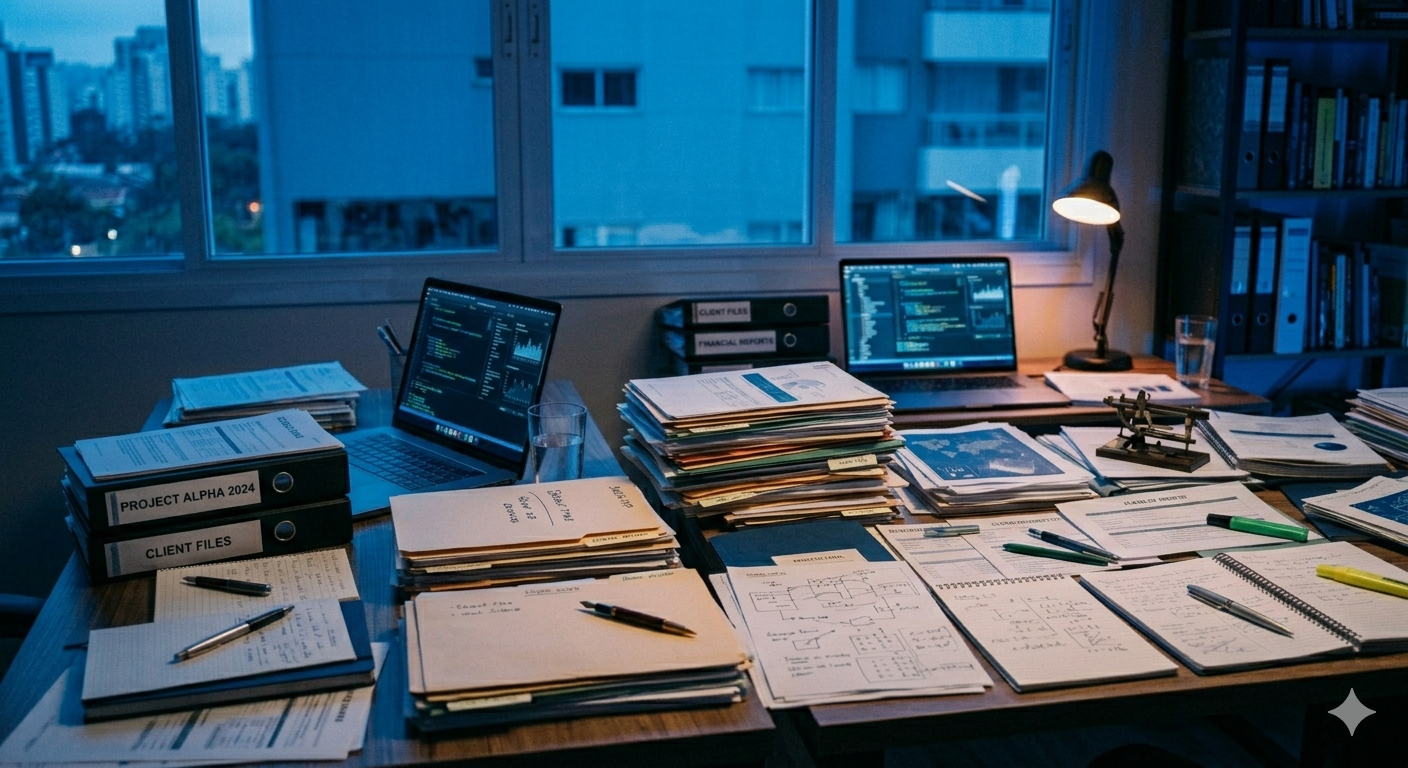
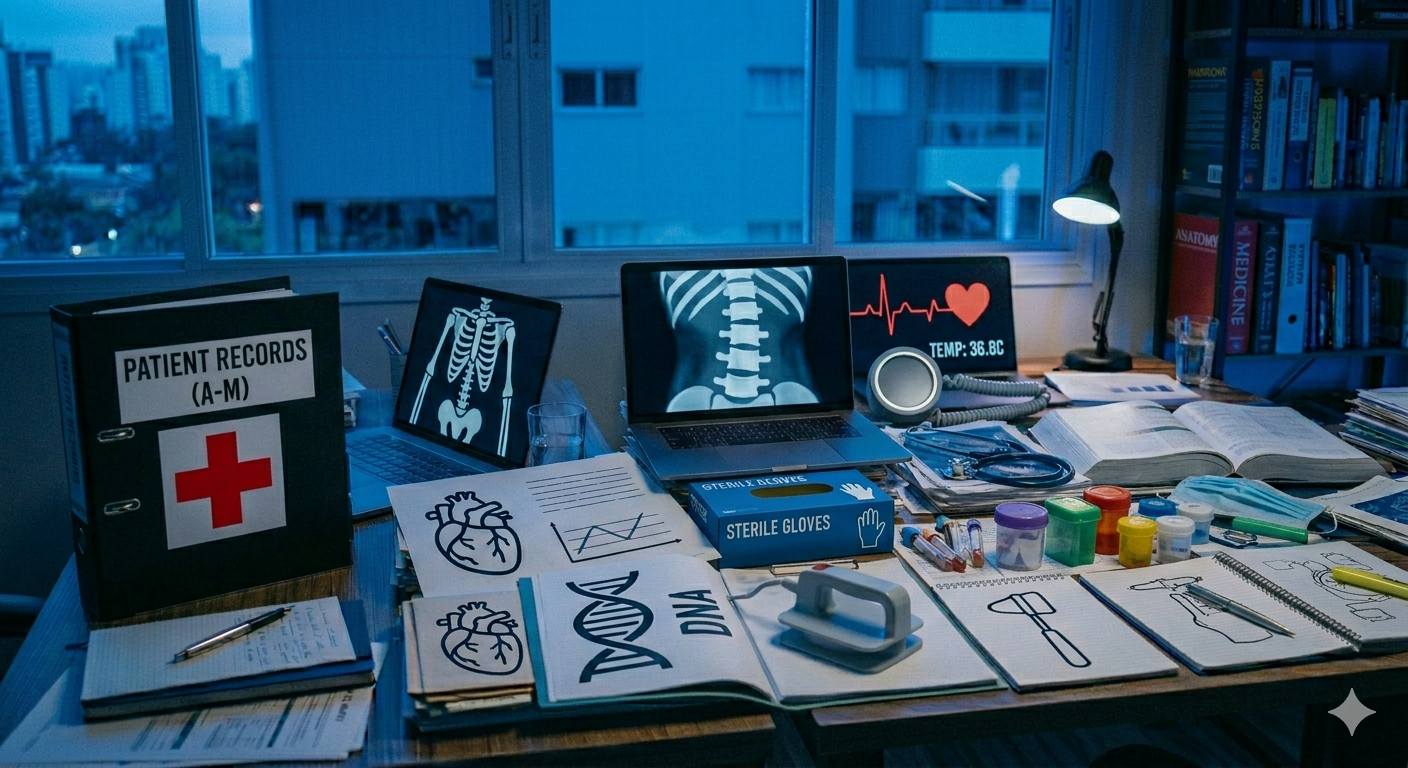
ajuste visual

diff --git a/src/app/login/page.js b/src/app/login/page.js
@@ -50,7 +50,7 @@ export default function Login() {
 
   return (
 
-    <main className="bg-[url('/fundoAlt.png')] bg-cover bg-center bg-no-repeat min-h-screen">
+    <main className="bg-[url('/fundomenu.png')] bg-cover bg-center bg-no-repeat min-h-screen">
       <div className="flex min-h-screen flex-col items-center justify-center bg-[var(--azultransp)] backdrop-blur-sm w-full h-full absolute top-0 left-0">
         <div className="gradient-vertical left-0"></div>
         <div className="gradient-vertical right-0"></div>

diff --git a/src/app/componentes/conteudomain/chatcont.js b/src/app/componentes/conteudomain/chatcont.js
@@ -108,7 +108,7 @@ export default function ChatCont() {
                 }
               }}
               onChange={(e) => setTexto(e.target.value)}
-              placeholder="Digite uma mensagem..."
+              placeholder="Localize o relatório de alta da UTI da semana passada..."
               className="resize-none flex-1 p-2 rounded-xl border-transparent focus:outline-none focus:ring-2 focus:ring-[var(--bgbutton)] bg-[var(--branco)] resize-none"
             />
             <button
